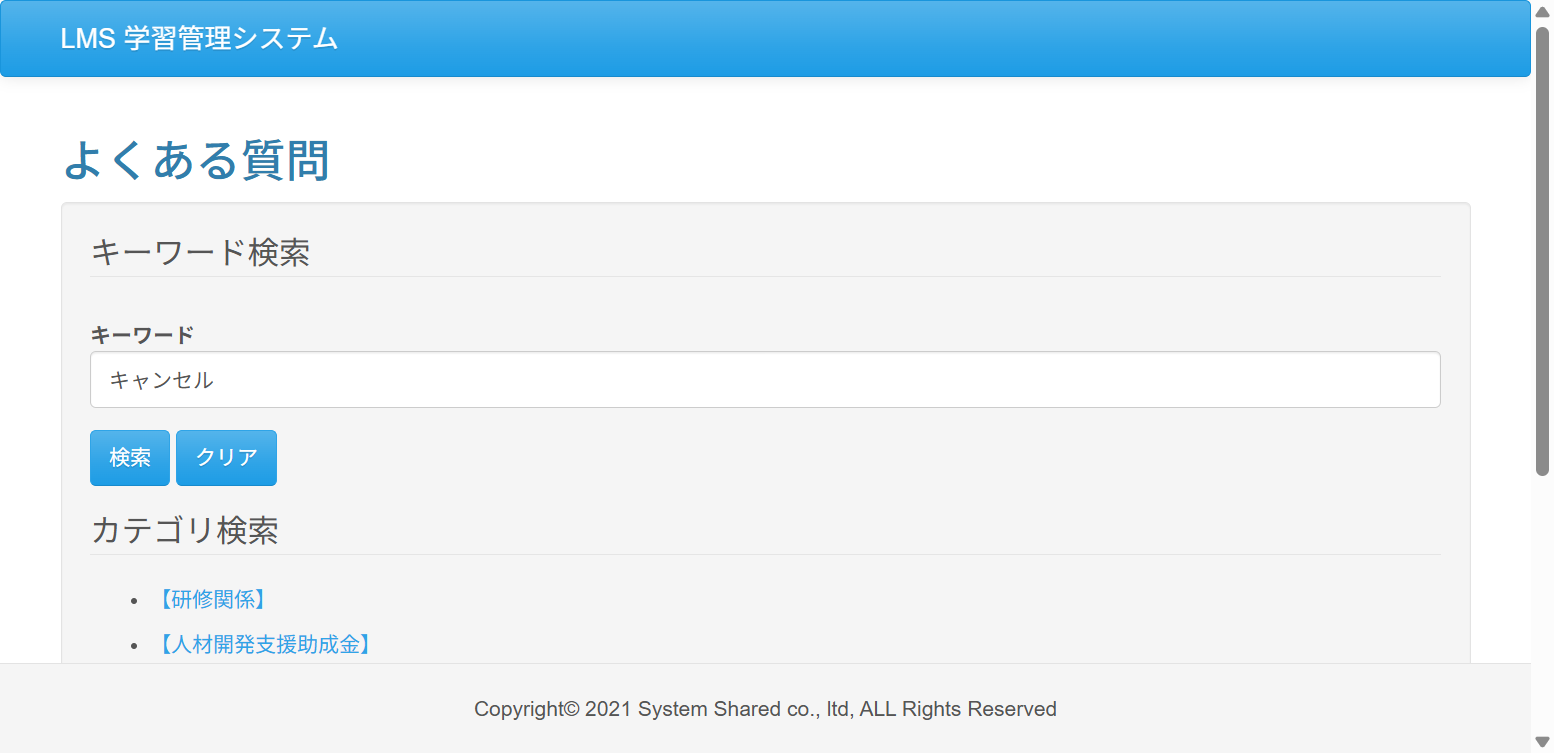
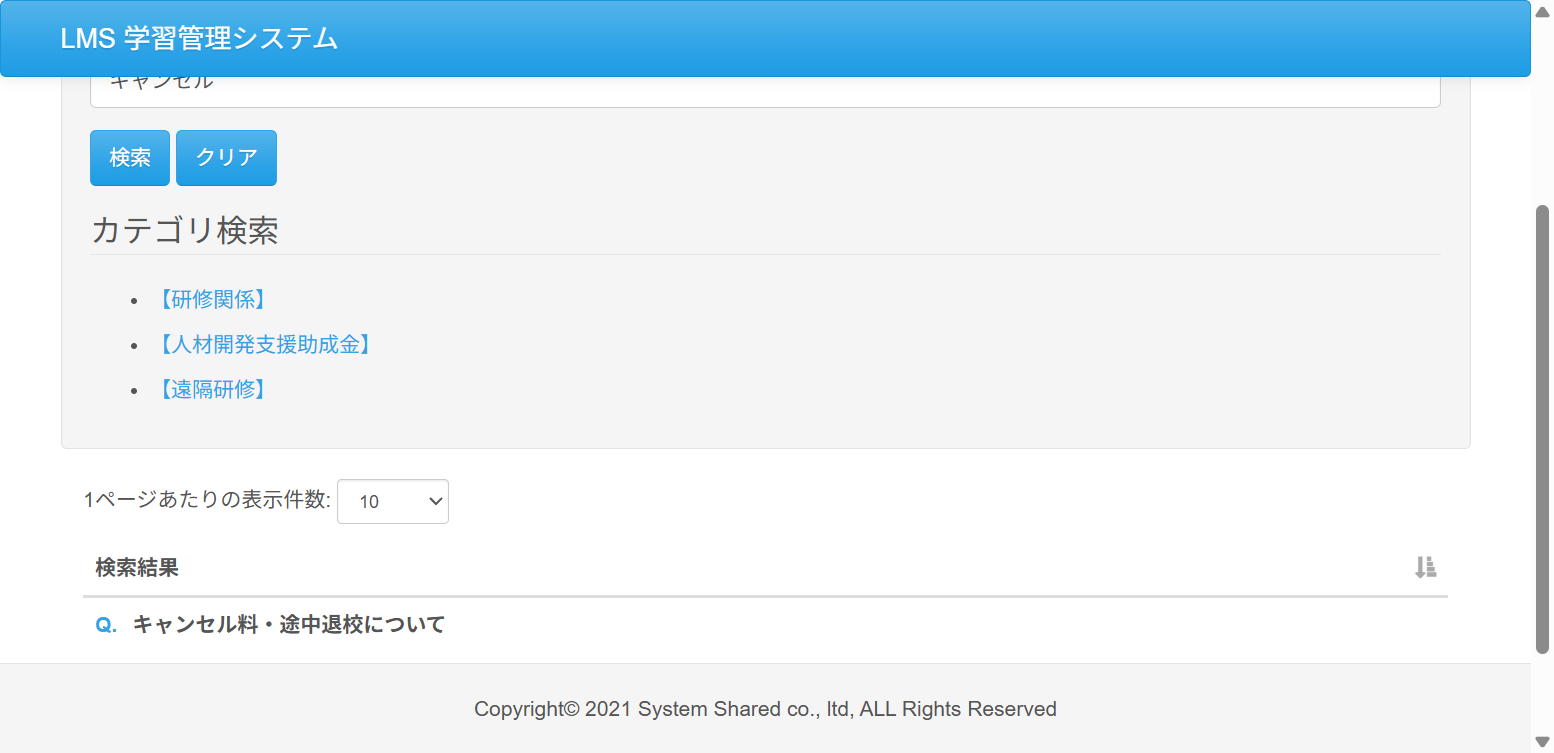
fix: Case5.java test5のエビデンス取得において検索結果も映るように調整

diff --git a/test_code_creation_name/src/test/java/jp/co/sss/lms/ct/f02_faq/Case05.java b/test_code_creation_name/src/test/java/jp/co/sss/lms/ct/f02_faq/Case05.java
@@ -146,6 +146,7 @@ public class Case05 {
 		}
 		//表示されている件数
 		assertEquals(1, elements.size());
+		scrollBy("200");
 		//エビデンス取得
 		getEvidence(new Evidence() {
 		});
@@ -161,6 +162,7 @@ public class Case05 {
 		//入力欄チェック
 		WebElement keywordElement = webDriver.findElement(By.id("form"));
 		assertEquals(null, keywordElement.getAttribute("keyword"));
+		scrollBy("-200");
 		//エビデンス取得
 		getEvidence(new Evidence() {
 		});
